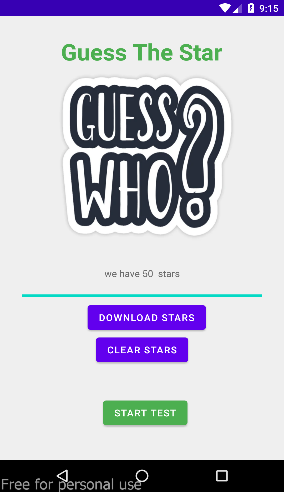
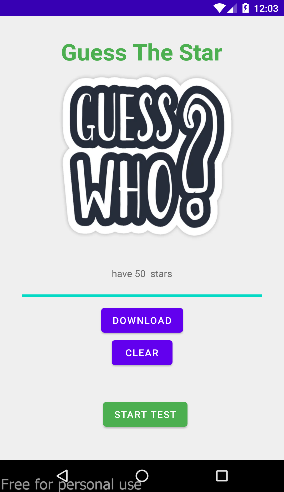
chore(README.md): update v2.0.0
update version 2.0.0
update screenshot

diff --git a/README.md b/README.md
@@ -1,7 +1,6 @@
 <h1 align="center">Guess The Star</h1>
 
-
-![Image text](https://github.com/kude5n1k/GuessTheStar/blob/master/assets/screenshot-2022-10-07_off.png)
+ 
 ![Image text](https://github.com/kude5n1k/GuessTheStar/blob/master/assets/screenshot-2022-10-07_on.png)
 ![](https://github.com/kude5n1k/GuessTheStar/blob/master/assets/gif_v1.gif)
 
@@ -9,6 +8,7 @@
 * A simple android project that demonstrates how to implement Android Architecture Components.
 * The application is made in the form of a test for knowledge of the greatest movie stars in 100 years according to AFI.
 * Data source [wikipedia](https://en.wikipedia.org/wiki/AFI%27s_100_Years...100_Stars)
+* version 2.0.0
 
 ### Architectural pattern: MVP (Model–View–Presenter)
  
